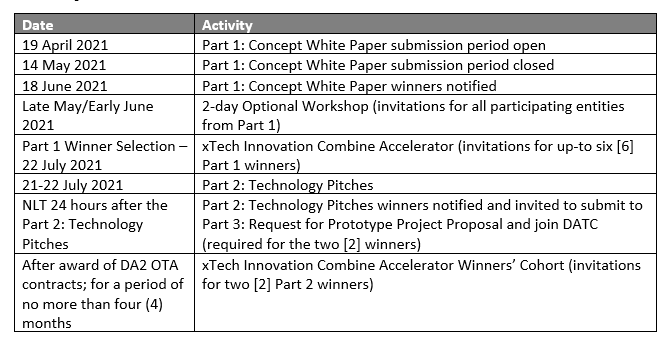
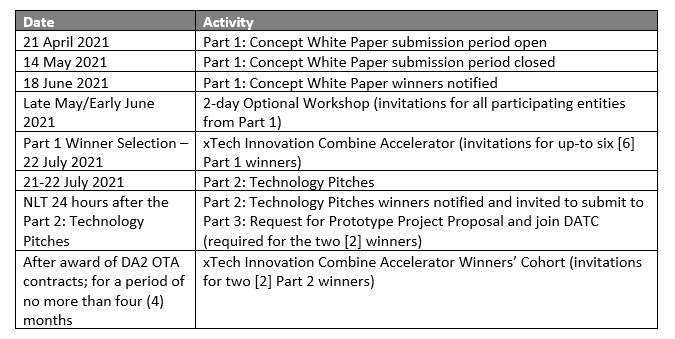
Update Challenge “1224-xtech-innovation-combine-advanced-energy-storage-challenge”

Changed region(s): [[0.0, 0.0295, 0.9851, 0.9735]]

diff --git a/_all-challenges/1224-xtech-innovation-combine-advanced-energy-storage-challenge.md b/_all-challenges/1224-xtech-innovation-combine-advanced-energy-storage-challenge.md
@@ -8,10 +8,11 @@ status: open
 sidenav: true
 card-image: /assets/netlify-uploads/xtechinnovcom-challenge.gov-logo.png
 agency-logo: /assets/netlify-uploads/dod_seal.jpg
-tagline: "The xTech Innovation Combine Advanced Energy Storage aims to
-  accelerate integration of technology prototypes crucial for Army capability
-  gaps into military platforms. "
+tagline: "The xTech Innovation Combine aims to accelerate integration of
+  technology prototypes crucial for Army capability gaps into military
+  platforms. "
 agency: Department of Defense - U.S. Army
+partner-agencies-federal: Army Futures Command (AFC)
 total-prize-offered-cash: $120,000
 type-of-challenge:
   - Software and apps
@@ -21,7 +22,7 @@ type-of-challenge:
   - Business plans
   - Analytics, visualizations, algorithms
   - Scientific
-submission-start: 2021/04/19 12:01 AM
+submission-start: 2021/04/21 12:01 AM
 submission-end: 2021/05/14 8:00 PM
 fiscal-year: FY21
 legal-authority: Agency specific prize authority
@@ -40,7 +41,7 @@ description: >-
   The U.S. Army Futures Command (AFC) has partnered with the Assistant Secretary of the Army (Acquisition, Logistics, and Technology) (ASA(ALT)) to deliver this competition. The Army recognizes that it must enhance engagements with eligible U.S.-based companies and organizations by (1) understanding the spectrum of ‘world-class’ technologies being developed commercially that may benefit the Department of Defense (DoD), (2) integrating the sector of commercial innovators into the DoD Science and Technology (S&T) ecosystem, and (3) providing mentorship and expertise to accelerate, mature, and transition technologies of interest to the DoD.
 
 
-  The Innovation Combine is an opportunity for eligible entities (i.e., companies and organizations) to pitch novel advanced energy storage technology solutions directly to the U.S. Army. In addition to non-dilutive cash prizes, entities will have the opportunity to engage with U.S. Army and other partners through information sharing and networking opportunities. The Innovation Combine will provide operational and technical feedback from Army subject matter experts on proposed ideas submitted to this competition and offer the finalists cash prizes and opportunities to participate in the xTech Accelerator to receive education, mentorship, and networking opportunities to help grow their businesses for military and commercial users.
+  The Innovation Combine is an opportunity for eligible entities (i.e., companies and organizations) to pitch novel advanced energy storage technology solutions directly to the U.S. Army. In addition to non-dilutive cash prizes, entities will have the opportunity to engage with U.S. Army and other partners through information sharing and networking opportunities. The Innovation Combine will provide operational and technical feedback from United States Government (USG) subject matter experts on proposed ideas submitted to this competition and offer the finalists cash prizes and opportunities to participate in the xTech Accelerator to receive education, mentorship, and networking opportunities to help grow their businesses for military and commercial users.
 
 
   **Purpose**
@@ -73,7 +74,7 @@ description: >-
   **Key Dates**
 
 
-  ![Key Dates]({{site.baseurl}}//assetts/netlify-uploads/xtech-innovation-combine_key-dates.png)
+  ![Key Dates](/assets/netlify-uploads/xtech-innovation-combine_key-dates.png)
 prizes: >-
   Total Prize Pool: $120K
 
@@ -169,6 +170,15 @@ rules: >-
 
   The USG will not reimburse participants for any costs associated with preparing or submitting responses to any portion of Innovation Combine (Part 1, Part 2, or Part 3). Participation in the Innovation Combine is voluntary. This announcement/competition and/or the information presented herein will not obligate the USG in any manner. The posted information is provided for planning purposes only and does not constitute a Request for Proposal.
 judging: >-
+  **Judging Panel**
+
+
+  The concept white paper and accompanying single-slide summary chart will be evaluated by a team of United States Government (USG) subject matter experts (SMEs), including technical, acquisition, and user experts. 
+
+
+  **Judging Criteria**
+
+
   **Part 1: Request for Concept White Papers**
 
 
@@ -225,7 +235,7 @@ Innovation Combine Advanced Energy Storage Challenge (also referred to as the In
 
 The U.S. Army Futures Command (AFC) has partnered with the Assistant Secretary of the Army (Acquisition, Logistics, and Technology) (ASA(ALT)) to deliver this competition. The Army recognizes that it must enhance engagements with eligible U.S.-based companies and organizations by (1) understanding the spectrum of ‘world-class’ technologies being developed commercially that may benefit the Department of Defense (DoD), (2) integrating the sector of commercial innovators into the DoD Science and Technology (S&T) ecosystem, and (3) providing mentorship and expertise to accelerate, mature, and transition technologies of interest to the DoD.
 
-The Innovation Combine is an opportunity for eligible entities (i.e., companies and organizations) to pitch novel advanced energy storage technology solutions directly to the U.S. Army. In addition to non-dilutive cash prizes, entities will have the opportunity to engage with U.S. Army and other partners through information sharing and networking opportunities. The Innovation Combine will provide operational and technical feedback from Army subject matter experts on proposed ideas submitted to this competition and offer the finalists cash prizes and opportunities to participate in the xTech Accelerator to receive education, mentorship, and networking opportunities to help grow their businesses for military and commercial users.
+The Innovation Combine is an opportunity for eligible entities (i.e., companies and organizations) to pitch novel advanced energy storage technology solutions directly to the U.S. Army. In addition to non-dilutive cash prizes, entities will have the opportunity to engage with U.S. Army and other partners through information sharing and networking opportunities. The Innovation Combine will provide operational and technical feedback from United States Government (USG) subject matter experts on proposed ideas submitted to this competition and offer the finalists cash prizes and opportunities to participate in the xTech Accelerator to receive education, mentorship, and networking opportunities to help grow their businesses for military and commercial users.
 
 **Purpose**
 
@@ -314,7 +324,7 @@ The USG will not reimburse participants for any costs associated with preparing 
 
 **Judging Panel**
 
-The concept white paper and accompanying single-slide summary chart will be evaluated by a team of Army subject matter experts (SMEs), including technical, acquisition, and user experts. 
+The concept white paper and accompanying single-slide summary chart will be evaluated by a team of USG subject matter experts (SMEs), including technical, acquisition, and user experts. 
 
 **Judging Criteria**
 
